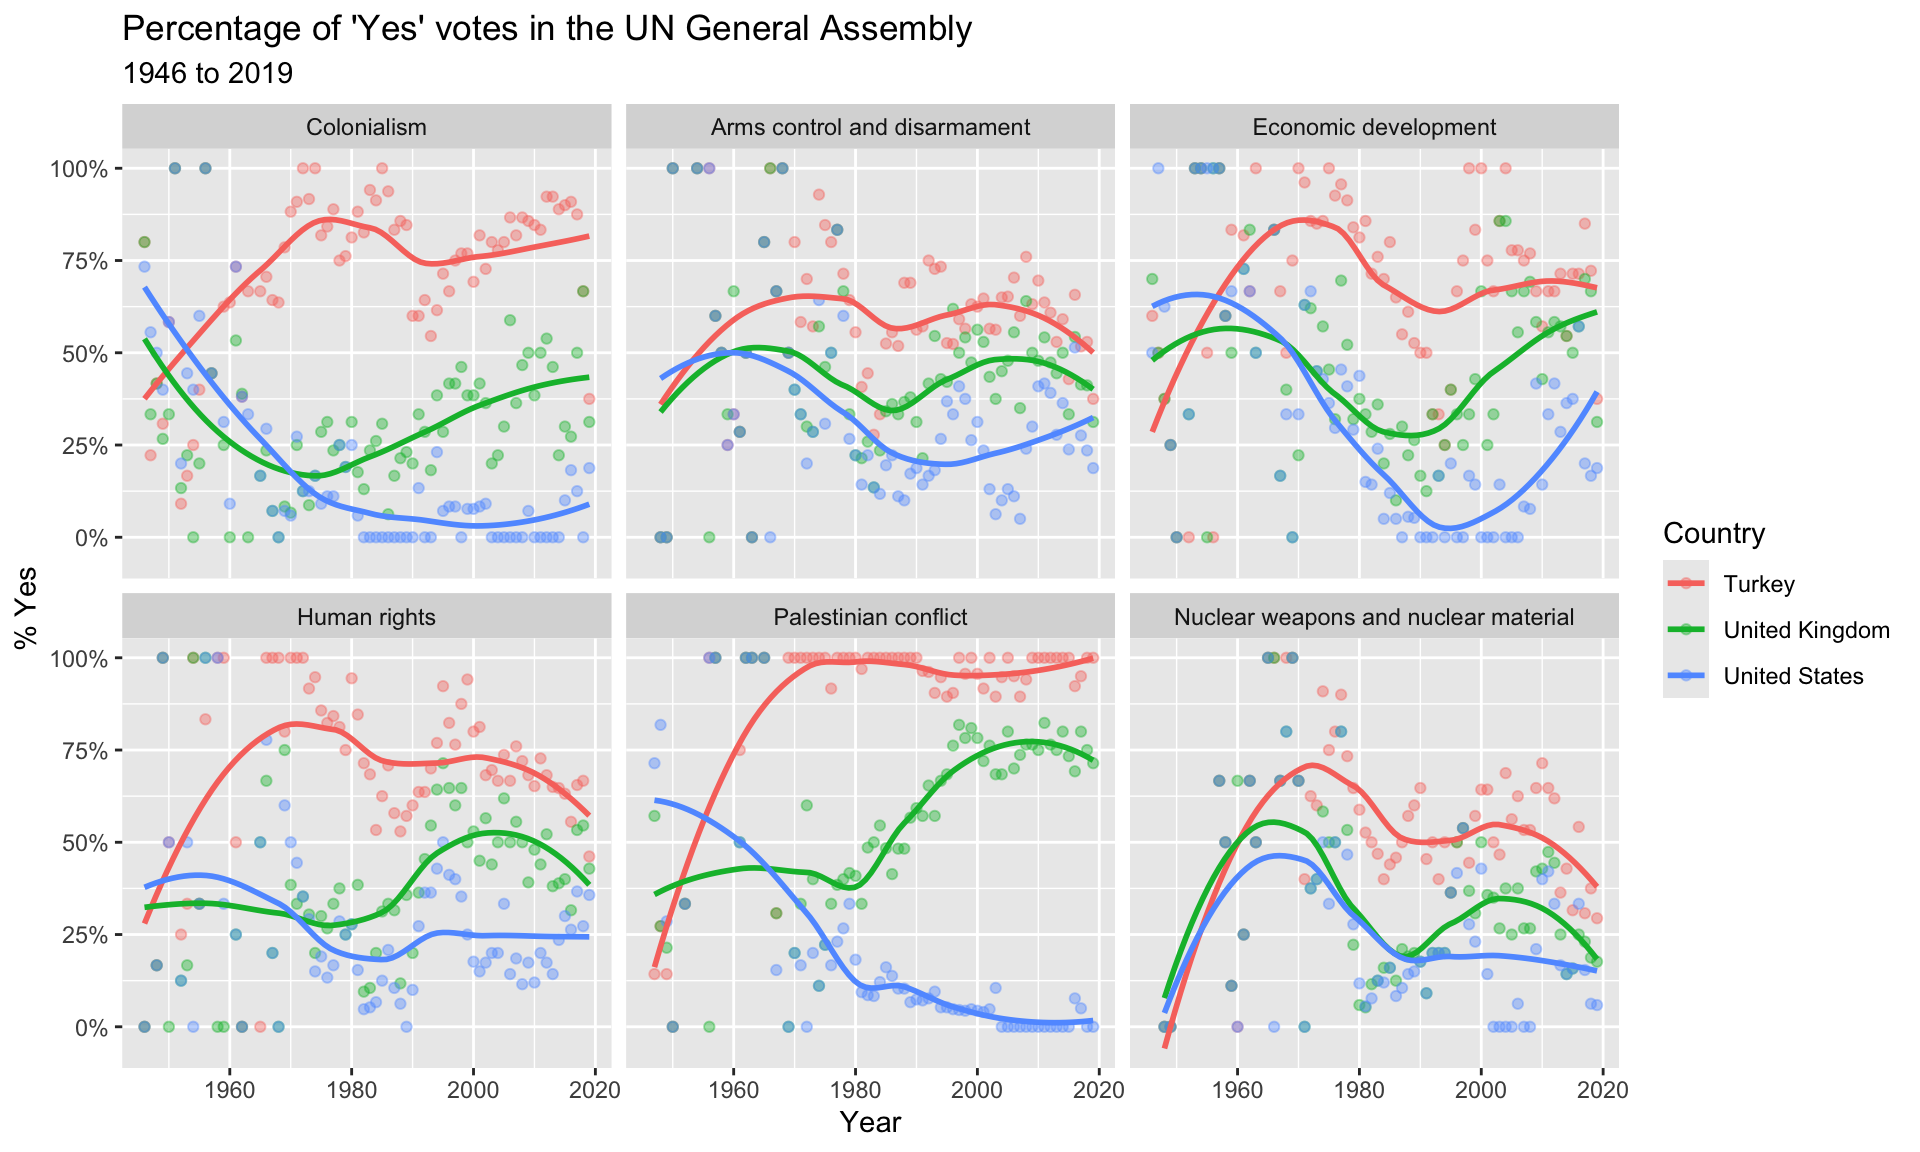
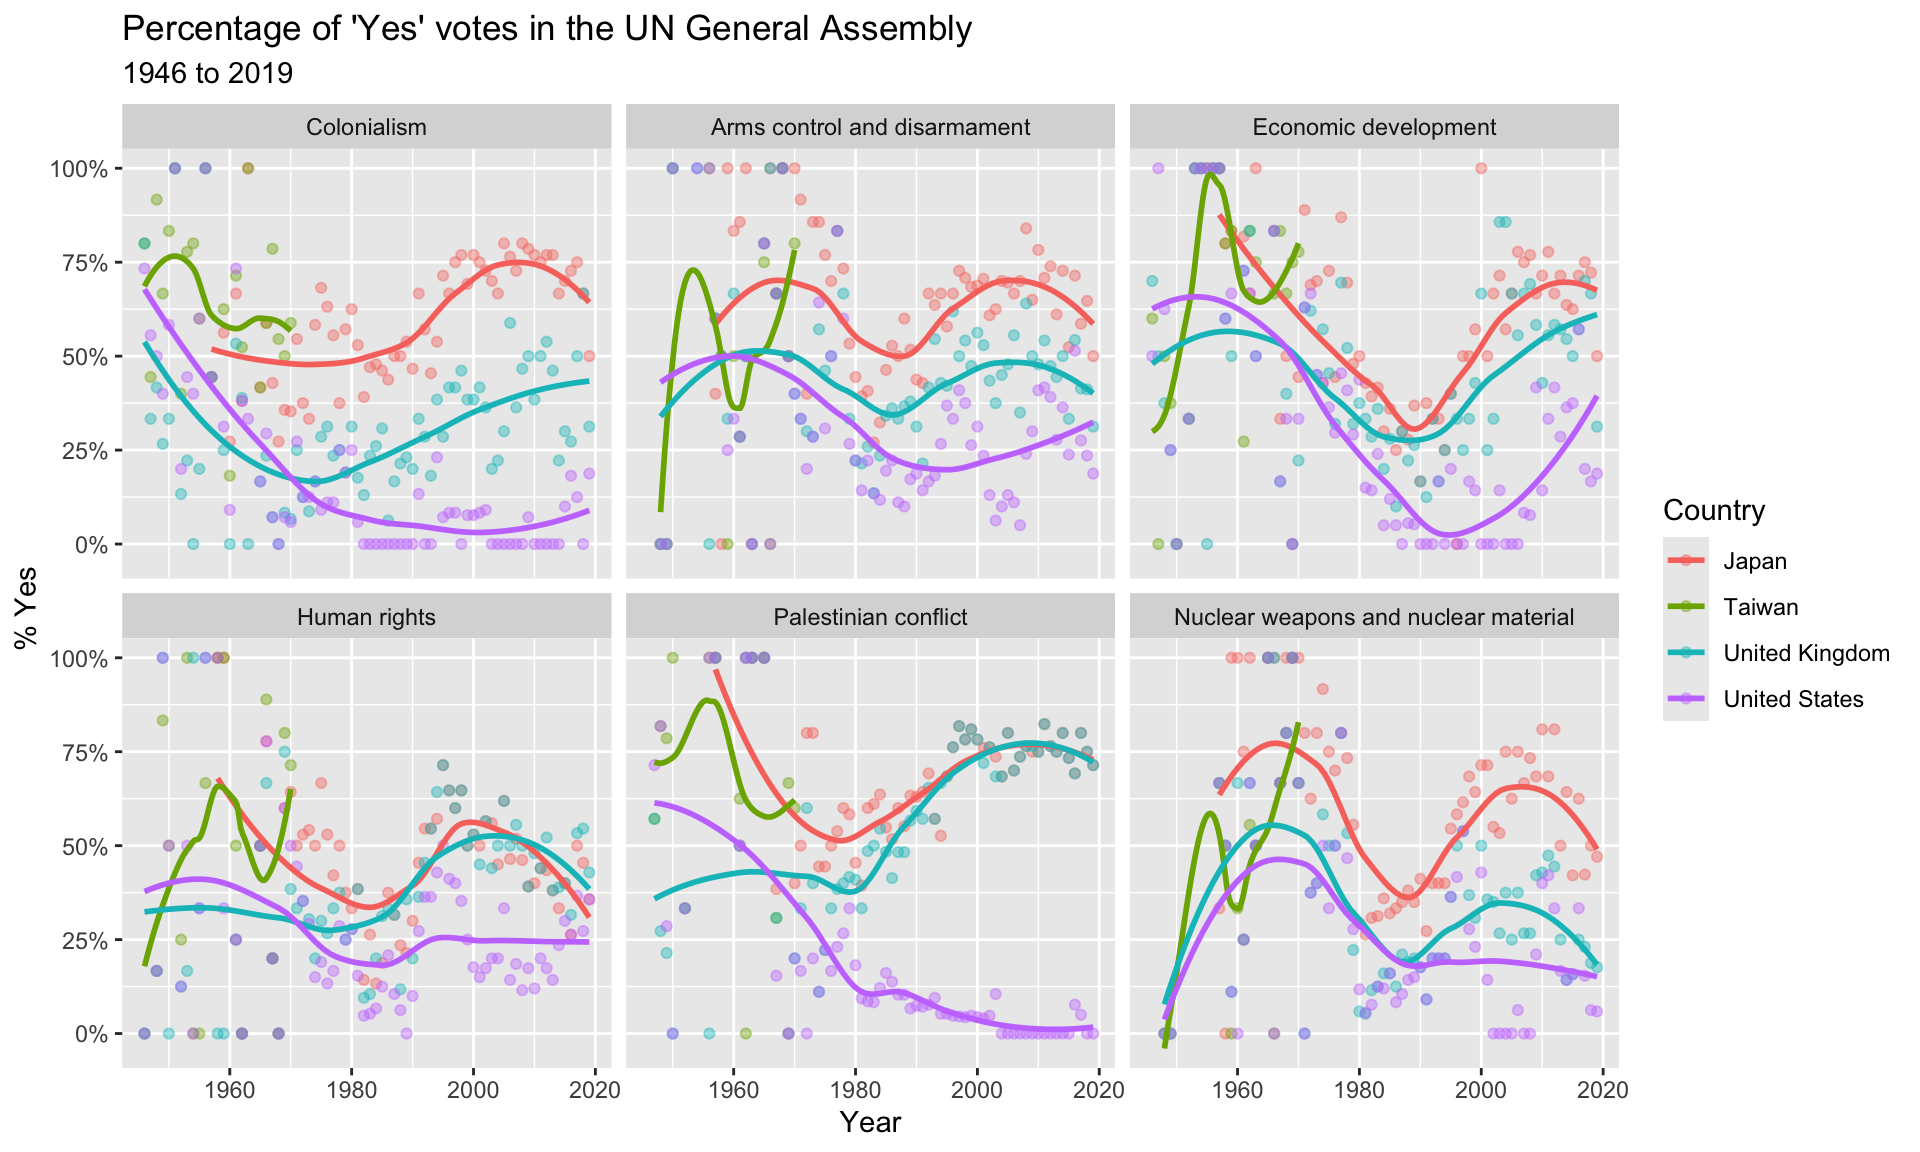
Update country filter in UN Votes analysis and refresh associated plot

diff --git a/Coursera-Data-Visualization-Transformation-with-R/1-1-unvotes.html b/Coursera-Data-Visualization-Transformation-with-R/1-1-unvotes.html
@@ -139,7 +139,7 @@ pre > code.sourceCode > span > a:first-child::before { text-decoration: underlin
 <p>We can easily change which countries are being plotted by changing which countries the code above <code>filter</code>s for. Note that the country name should be spelled and capitalized exactly the same way as it appears in the data. See the <a href="#appendix">Appendix</a> for a list of the countries in the data.</p>
 <div class="cell">
 <div class="code-copy-outer-scaffold"><div class="sourceCode cell-code" id="cb3"><pre class="sourceCode r code-with-copy"><code class="sourceCode r"><span id="cb3-1"><a href="#cb3-1" aria-hidden="true" tabindex="-1"></a>unvotes <span class="sc">|&gt;</span></span>
-<span id="cb3-2"><a href="#cb3-2" aria-hidden="true" tabindex="-1"></a>  <span class="fu">filter</span>(country <span class="sc">%in%</span> <span class="fu">c</span>(<span class="st">"United Kingdom"</span>, <span class="st">"United States"</span>, <span class="st">"Turkey"</span>)) <span class="sc">|&gt;</span></span>
+<span id="cb3-2"><a href="#cb3-2" aria-hidden="true" tabindex="-1"></a>  <span class="fu">filter</span>(country <span class="sc">%in%</span> <span class="fu">c</span>(<span class="st">"United Kingdom"</span>, <span class="st">"United States"</span>, <span class="st">"Japan"</span>, <span class="st">"Taiwan"</span>)) <span class="sc">|&gt;</span></span>
 <span id="cb3-3"><a href="#cb3-3" aria-hidden="true" tabindex="-1"></a>  <span class="fu">mutate</span>(<span class="at">year =</span> <span class="fu">year</span>(date)) <span class="sc">|&gt;</span></span>
 <span id="cb3-4"><a href="#cb3-4" aria-hidden="true" tabindex="-1"></a>  <span class="fu">group_by</span>(country, year, issue) <span class="sc">|&gt;</span></span>
 <span id="cb3-5"><a href="#cb3-5" aria-hidden="true" tabindex="-1"></a>  <span class="fu">summarize</span>(<span class="at">percent_yes =</span> <span class="fu">mean</span>(vote <span class="sc">==</span> <span class="st">"yes"</span>)) <span class="sc">|&gt;</span> </span>
@@ -177,8 +177,8 @@ pre > code.sourceCode > span > a:first-child::before { text-decoration: underlin
 <p>Below is a list of countries in the dataset:</p>
 <div class="cell">
 <div class="cell-output-display">
-<div class="datatables html-widget html-fill-item" id="htmlwidget-a41214fd5dd177cb9a97" style="width:100%;height:auto;"></div>
-<script type="application/json" data-for="htmlwidget-a41214fd5dd177cb9a97">{"x":{"filter":"none","vertical":false,"data":[["1","2","3","4","5","6","7","8","9","10","11","12","13","14","15","16","17","18","19","20","21","22","23","24","25","26","27","28","29","30","31","32","33","34","35","36","37","38","39","40","41","42","43","44","45","46","47","48","49","50","51","52","53","54","55","56","57","58","59","60","61","62","63","64","65","66","67","68","69","70","71","72","73","74","75","76","77","78","79","80","81","82","83","84","85","86","87","88","89","90","91","92","93","94","95","96","97","98","99","100","101","102","103","104","105","106","107","108","109","110","111","112","113","114","115","116","117","118","119","120","121","122","123","124","125","126","127","128","129","130","131","132","133","134","135","136","137","138","139","140","141","142","143","144","145","146","147","148","149","150","151","152","153","154","155","156","157","158","159","160","161","162","163","164","165","166","167","168","169","170","171","172","173","174","175","176","177","178","179","180","181","182","183","184","185","186","187","188","189","190","191","192","193","194","195","196","197","198","199","200"],["Afghanistan","Albania","Algeria","Andorra","Angola","Antigua &amp; Barbuda","Argentina","Armenia","Australia","Austria","Azerbaijan","Bahamas","Bahrain","Bangladesh","Barbados","Belarus","Belgium","Belize","Benin","Bhutan","Bolivia","Bosnia &amp; Herzegovina","Botswana","Brazil","Brunei","Bulgaria","Burkina Faso","Burundi","Cambodia","Cameroon","Canada","Cape Verde","Central African Republic","Chad","Chile","China","Colombia","Comoros","Congo - Brazzaville","Congo - Kinshasa","Costa Rica","Croatia","Cuba","Cyprus","Czechia","Czechoslovakia","Côte d’Ivoire","Denmark","Djibouti","Dominica","Dominican Republic","Ecuador","Egypt","El Salvador","Equatorial Guinea","Eritrea","Estonia","Eswatini","Ethiopia","Federal Republic of Germany","Fiji","Finland","France","Gabon","Gambia","Georgia","German Democratic Republic","Germany","Ghana","Greece","Grenada","Guatemala","Guinea","Guinea-Bissau","Guyana","Haiti","Honduras","Hungary","Iceland","India","Indonesia","Iran","Iraq","Ireland","Israel","Italy","Jamaica","Japan","Jordan","Kazakhstan","Kenya","Kiribati","Kuwait","Kyrgyzstan","Laos","Latvia","Lebanon","Lesotho","Liberia","Libya","Liechtenstein","Lithuania","Luxembourg","Madagascar","Malawi","Malaysia","Maldives","Mali","Malta","Marshall Islands","Mauritania","Mauritius","Mexico","Micronesia (Federated States of)","Moldova","Monaco","Mongolia","Montenegro","Morocco","Mozambique","Myanmar (Burma)","Namibia","Nauru","Nepal","Netherlands","New Zealand","Nicaragua","Niger","Nigeria","North Korea","North Macedonia","Norway","Oman","Pakistan","Palau","Panama","Papua New Guinea","Paraguay","Peru","Philippines","Poland","Portugal","Qatar","Romania","Russia","Rwanda","Samoa","San Marino","Saudi Arabia","Senegal","Seychelles","Sierra Leone","Singapore","Slovakia","Slovenia","Solomon Islands","Somalia","South Africa","South Korea","South Sudan","Spain","Sri Lanka","St. Kitts &amp; Nevis","St. Lucia","St. Vincent &amp; Grenadines","Sudan","Suriname","Sweden","Switzerland","Syria","São Tomé &amp; Príncipe","Taiwan","Tajikistan","Tanzania","Thailand","Timor-Leste","Togo","Tonga","Trinidad &amp; Tobago","Tunisia","Turkey","Turkmenistan","Tuvalu","Uganda","Ukraine","United Arab Emirates","United Kingdom","United States","Uruguay","Uzbekistan","Vanuatu","Venezuela","Vietnam","Yemen","Yemen Arab Republic","Yemen People's Republic","Yugoslavia","Zambia","Zanzibar","Zimbabwe"]],"container":"<table class=\"display\">\n  <thead>\n    <tr>\n      <th> <\/th>\n      <th>country<\/th>\n    <\/tr>\n  <\/thead>\n<\/table>","options":{"columnDefs":[{"orderable":false,"targets":0},{"name":" ","targets":0},{"name":"country","targets":1}],"order":[],"autoWidth":false,"orderClasses":false}},"evals":[],"jsHooks":[]}</script>
+<div class="datatables html-widget html-fill-item" id="htmlwidget-e5c649a19f964aa007e1" style="width:100%;height:auto;"></div>
+<script type="application/json" data-for="htmlwidget-e5c649a19f964aa007e1">{"x":{"filter":"none","vertical":false,"data":[["1","2","3","4","5","6","7","8","9","10","11","12","13","14","15","16","17","18","19","20","21","22","23","24","25","26","27","28","29","30","31","32","33","34","35","36","37","38","39","40","41","42","43","44","45","46","47","48","49","50","51","52","53","54","55","56","57","58","59","60","61","62","63","64","65","66","67","68","69","70","71","72","73","74","75","76","77","78","79","80","81","82","83","84","85","86","87","88","89","90","91","92","93","94","95","96","97","98","99","100","101","102","103","104","105","106","107","108","109","110","111","112","113","114","115","116","117","118","119","120","121","122","123","124","125","126","127","128","129","130","131","132","133","134","135","136","137","138","139","140","141","142","143","144","145","146","147","148","149","150","151","152","153","154","155","156","157","158","159","160","161","162","163","164","165","166","167","168","169","170","171","172","173","174","175","176","177","178","179","180","181","182","183","184","185","186","187","188","189","190","191","192","193","194","195","196","197","198","199","200"],["Afghanistan","Albania","Algeria","Andorra","Angola","Antigua &amp; Barbuda","Argentina","Armenia","Australia","Austria","Azerbaijan","Bahamas","Bahrain","Bangladesh","Barbados","Belarus","Belgium","Belize","Benin","Bhutan","Bolivia","Bosnia &amp; Herzegovina","Botswana","Brazil","Brunei","Bulgaria","Burkina Faso","Burundi","Cambodia","Cameroon","Canada","Cape Verde","Central African Republic","Chad","Chile","China","Colombia","Comoros","Congo - Brazzaville","Congo - Kinshasa","Costa Rica","Croatia","Cuba","Cyprus","Czechia","Czechoslovakia","Côte d’Ivoire","Denmark","Djibouti","Dominica","Dominican Republic","Ecuador","Egypt","El Salvador","Equatorial Guinea","Eritrea","Estonia","Eswatini","Ethiopia","Federal Republic of Germany","Fiji","Finland","France","Gabon","Gambia","Georgia","German Democratic Republic","Germany","Ghana","Greece","Grenada","Guatemala","Guinea","Guinea-Bissau","Guyana","Haiti","Honduras","Hungary","Iceland","India","Indonesia","Iran","Iraq","Ireland","Israel","Italy","Jamaica","Japan","Jordan","Kazakhstan","Kenya","Kiribati","Kuwait","Kyrgyzstan","Laos","Latvia","Lebanon","Lesotho","Liberia","Libya","Liechtenstein","Lithuania","Luxembourg","Madagascar","Malawi","Malaysia","Maldives","Mali","Malta","Marshall Islands","Mauritania","Mauritius","Mexico","Micronesia (Federated States of)","Moldova","Monaco","Mongolia","Montenegro","Morocco","Mozambique","Myanmar (Burma)","Namibia","Nauru","Nepal","Netherlands","New Zealand","Nicaragua","Niger","Nigeria","North Korea","North Macedonia","Norway","Oman","Pakistan","Palau","Panama","Papua New Guinea","Paraguay","Peru","Philippines","Poland","Portugal","Qatar","Romania","Russia","Rwanda","Samoa","San Marino","Saudi Arabia","Senegal","Seychelles","Sierra Leone","Singapore","Slovakia","Slovenia","Solomon Islands","Somalia","South Africa","South Korea","South Sudan","Spain","Sri Lanka","St. Kitts &amp; Nevis","St. Lucia","St. Vincent &amp; Grenadines","Sudan","Suriname","Sweden","Switzerland","Syria","São Tomé &amp; Príncipe","Taiwan","Tajikistan","Tanzania","Thailand","Timor-Leste","Togo","Tonga","Trinidad &amp; Tobago","Tunisia","Turkey","Turkmenistan","Tuvalu","Uganda","Ukraine","United Arab Emirates","United Kingdom","United States","Uruguay","Uzbekistan","Vanuatu","Venezuela","Vietnam","Yemen","Yemen Arab Republic","Yemen People's Republic","Yugoslavia","Zambia","Zanzibar","Zimbabwe"]],"container":"<table class=\"display\">\n  <thead>\n    <tr>\n      <th> <\/th>\n      <th>country<\/th>\n    <\/tr>\n  <\/thead>\n<\/table>","options":{"columnDefs":[{"orderable":false,"targets":0},{"name":" ","targets":0},{"name":"country","targets":1}],"order":[],"autoWidth":false,"orderClasses":false}},"evals":[],"jsHooks":[]}</script>
 </div>
 </div>
 </section>
